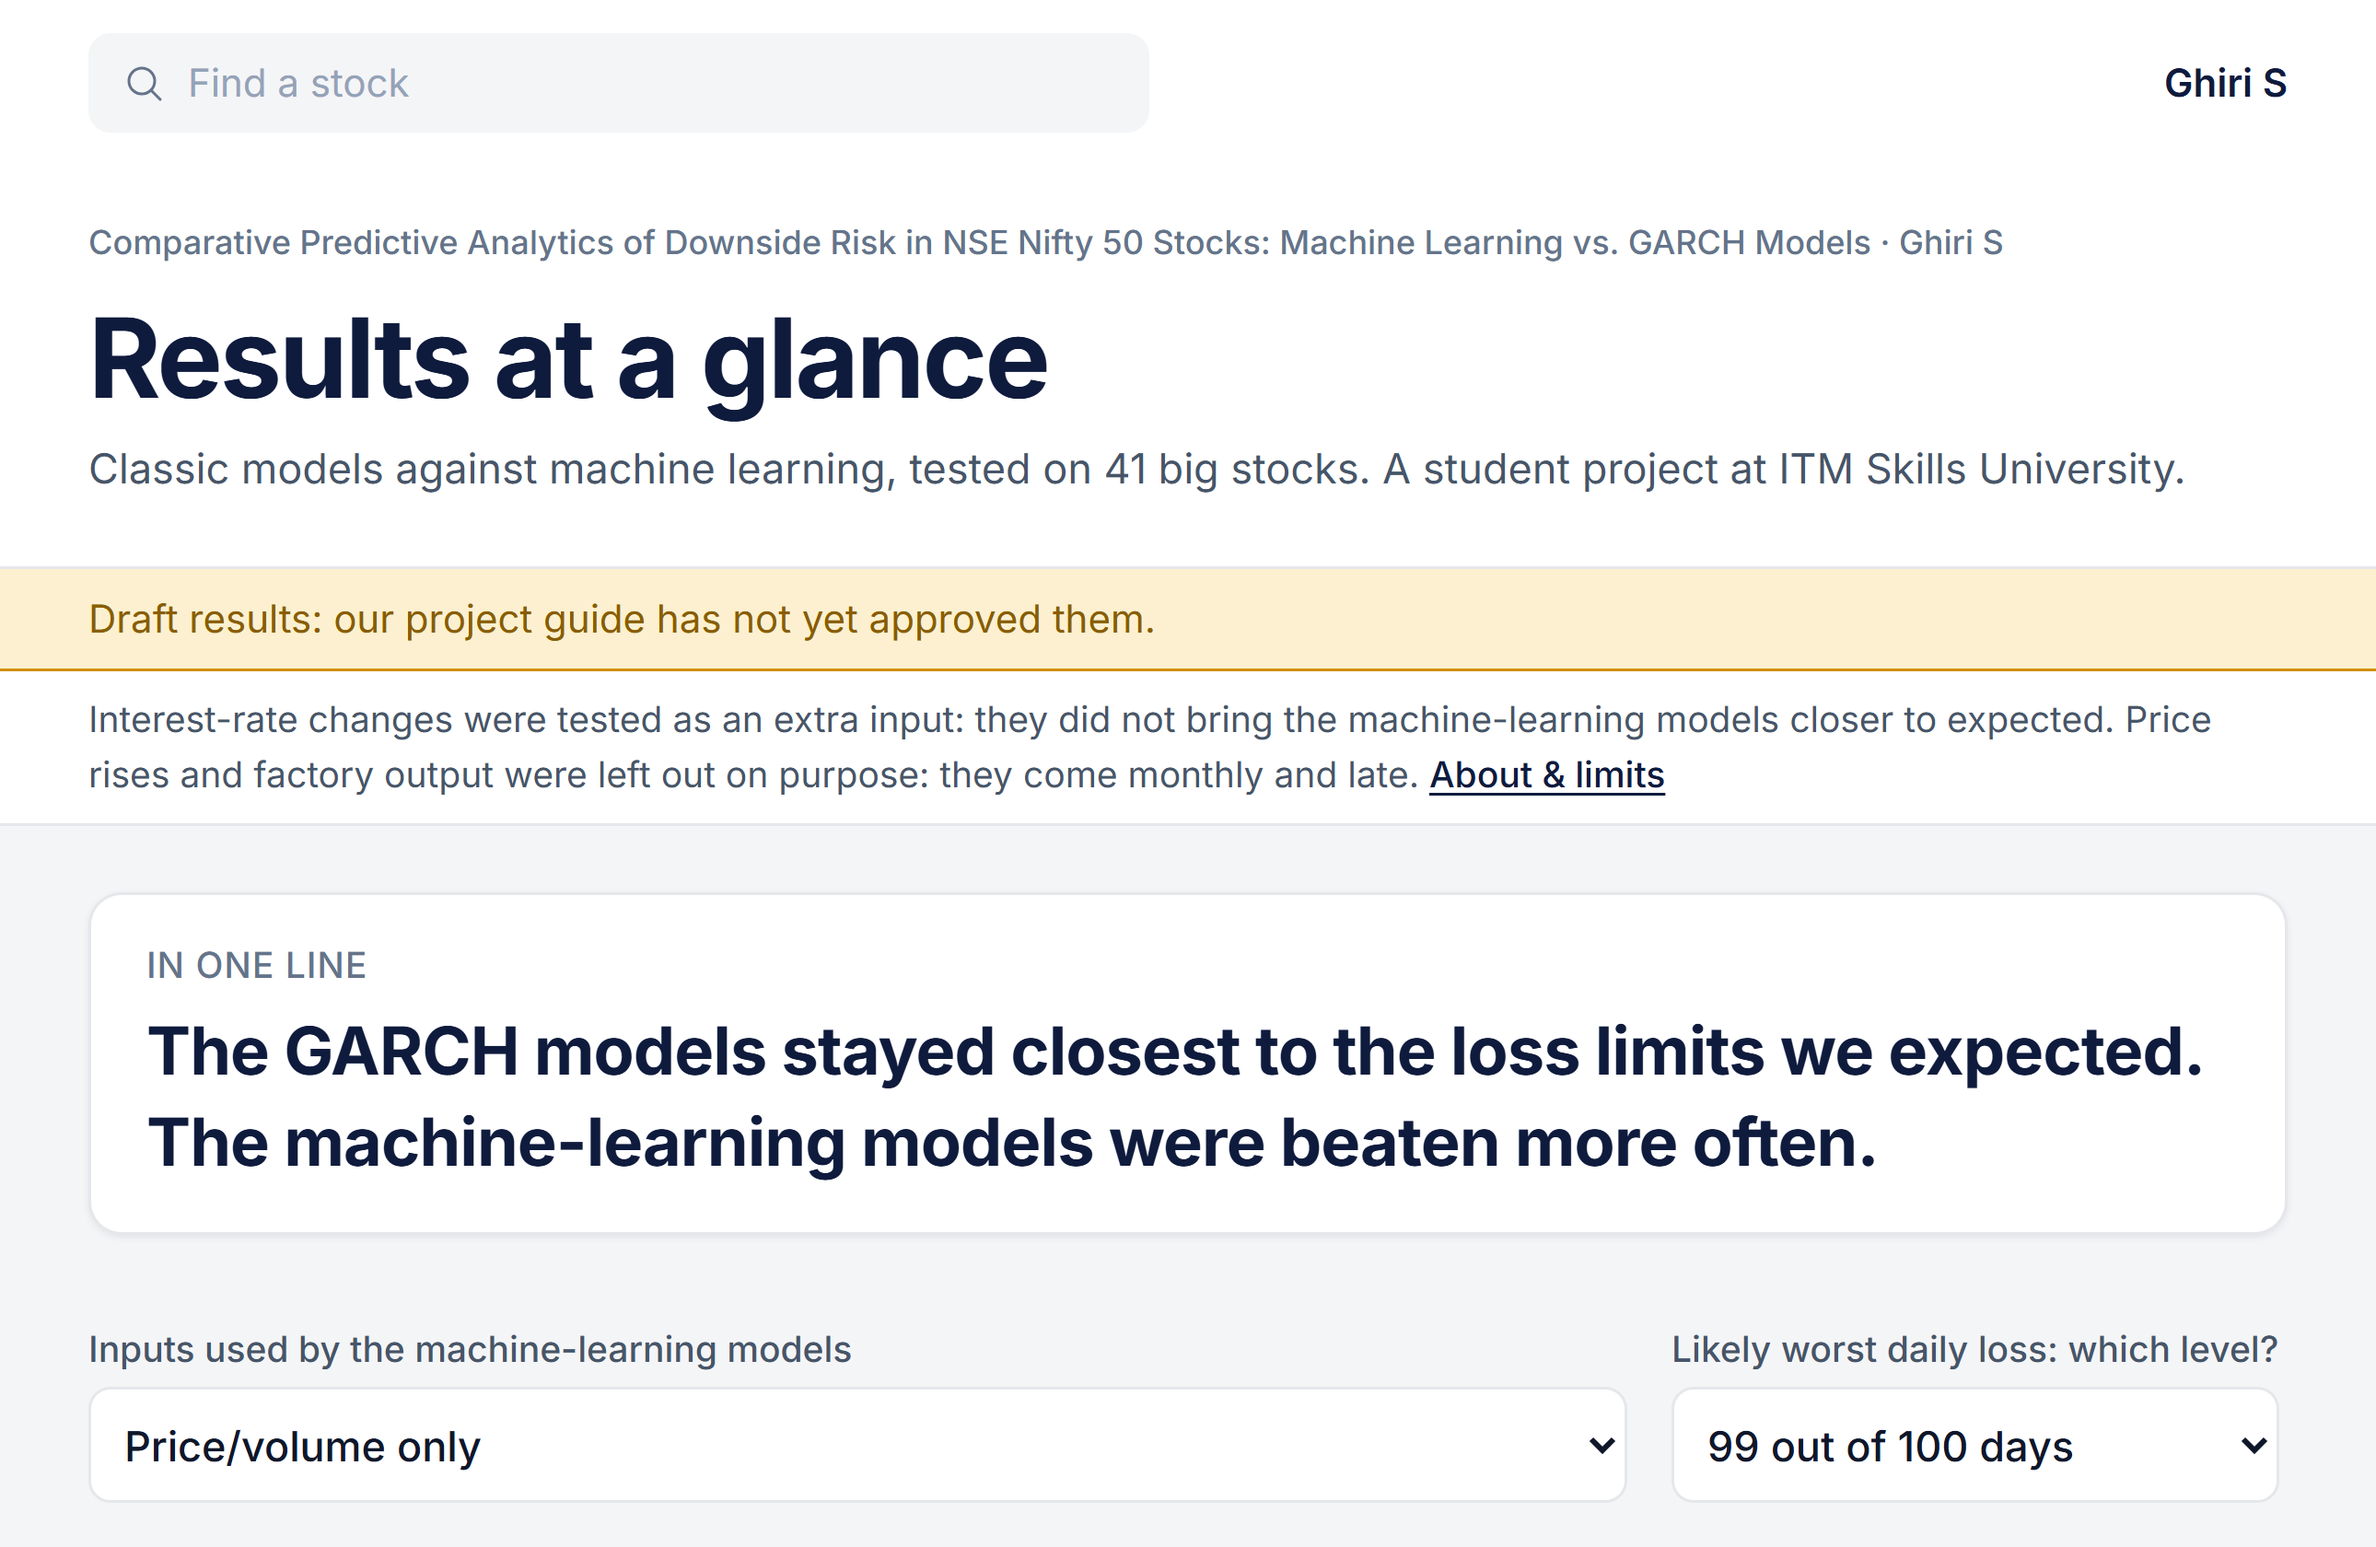
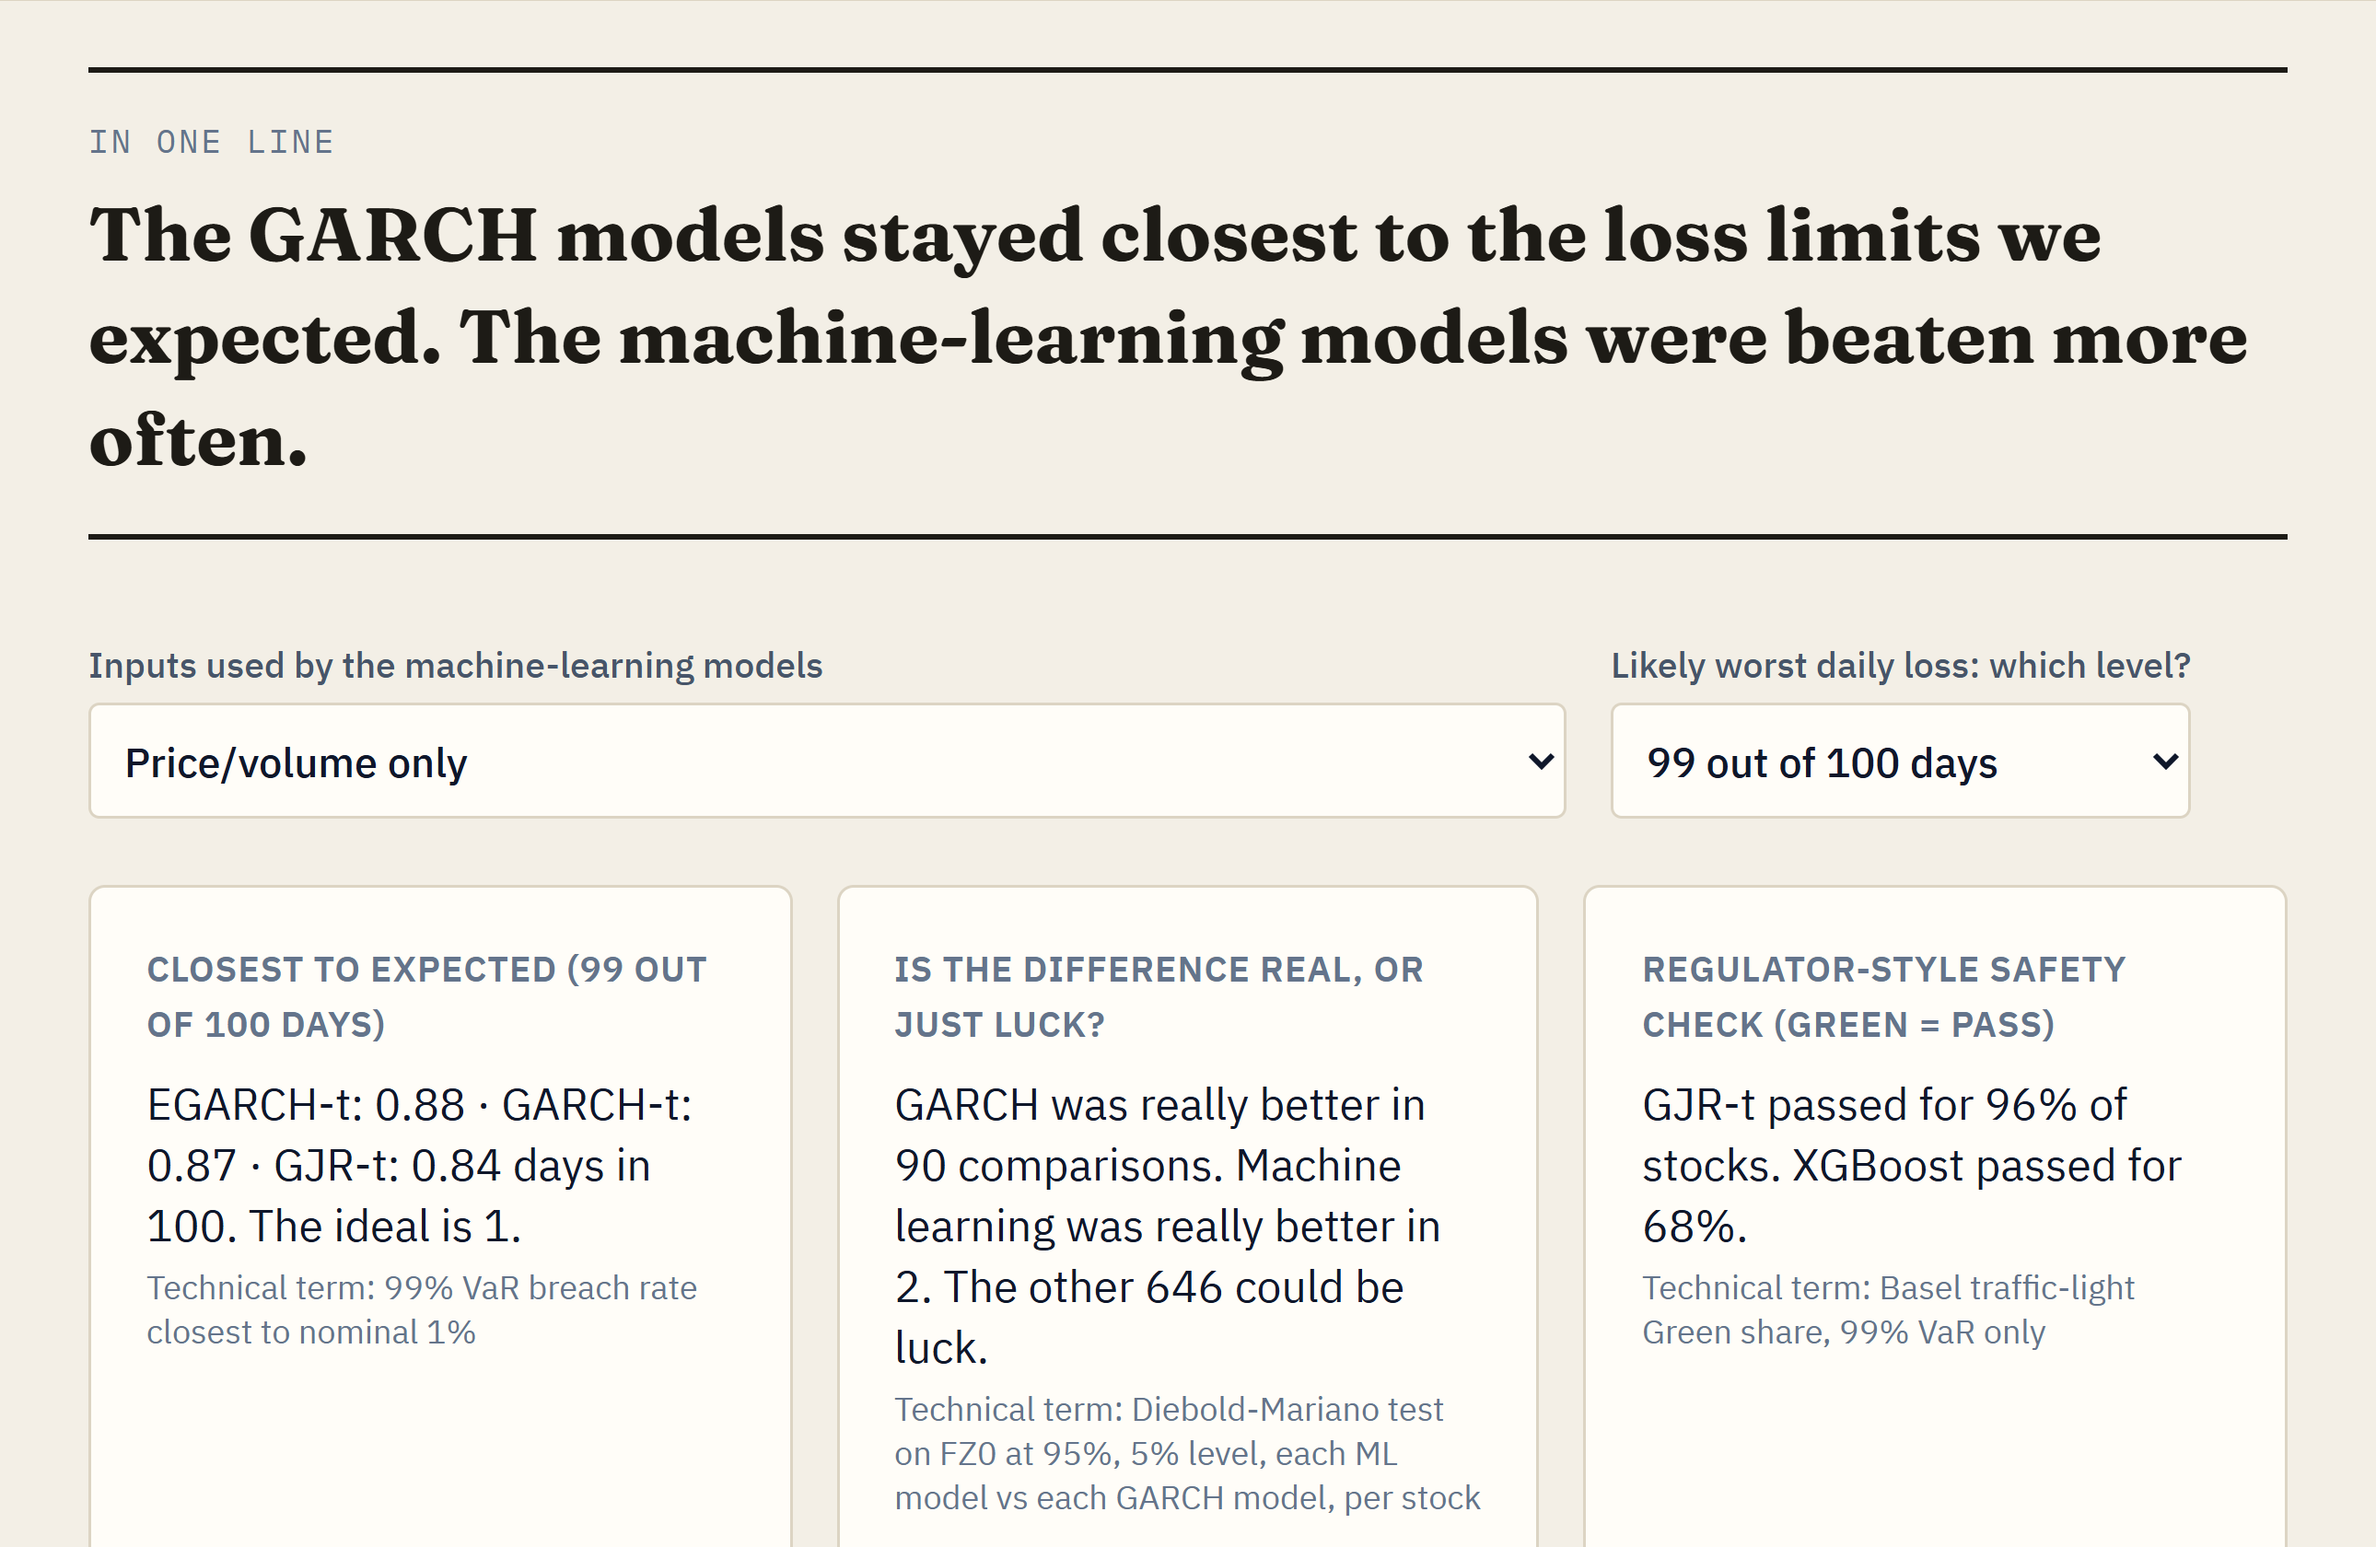
Report: new dashboard screenshots (tab content, risk-ledger design); all report checks clean; PROGRESS updated

diff --git a/src/report_screens.py b/src/report_screens.py
@@ -8,7 +8,7 @@ each crop (HTML and chart text) is measured and its printed size logged. It must
   python src/report_screens.py [--url https://ghiris-a11y.github.io/capstone-nifty50-downside-risk/] [--mode all|desktop|phone|crops]
   -> report/figures/dashboard/app_<name>.png and report/figures/dashboard/app_sizes.json   (crops: element crops)
   -> report/figures/dashboard/desk_<tab>.png  (desktop: first screen of each tab, 1100 x 700, device scale 3, cropped
-     to the content column (menu removed) and the top 560 px, so two fit on a portrait A4 page at 15.5 cm wide)
+     to the tab's own content (menu, masthead and banners removed), 560 px high, so two fit on a portrait A4 page)
   -> report/figures/dashboard/phone_<tab>.png (phone: first screen at 390 x 844, device scale 3)
   -> report/figures/dashboard/qr_dashboard.png (QR code of the live dashboard URL)
   -> report/figures/dashboard/screen_sizes.json (printed size of the body text in each image)
@@ -91,11 +91,13 @@ def first_screens(url, out, tabs, w, h, scale, prefix, print_cm, crop_h=None):
             page.wait_for_timeout(3500)
             body_px = page.evaluate(BODY_JS)
             path = os.path.join(out, f"{prefix}_{name}.png")
-            page.screenshot(path=path)
             shown_w = w
-            if crop_h:   # desktop: keep the content column (menu cropped off) and the top crop_h pixels
-                im = Image.open(path); im.crop((SIDEBAR_PX * scale, 0, im.width, crop_h * scale)).save(path)
+            if crop_h:   # desktop: the tab's own content (masthead and banners are the same on every tab); menu cropped off
+                top = page.evaluate("() => document.querySelector('main').getBoundingClientRect().top + window.scrollY")
+                page.screenshot(path=path, full_page=True, clip=dict(x=SIDEBAR_PX, y=top, width=w - SIDEBAR_PX, height=crop_h))
                 shown_w = w - SIDEBAR_PX
+            else:
+                page.screenshot(path=path)
             sizes[f"{prefix}_{name}"] = dict(viewport=f"{w}x{h}", scale=scale, print_cm=print_cm, body_px=body_px,
                                              body_pt=round(body_px * print_cm / shown_w / 0.03528, 1))
             print(prefix, name, sizes[f"{prefix}_{name}"], flush=True)

diff --git a/report/chapters/09_appendices.md b/report/chapters/09_appendices.md
@@ -88,22 +88,22 @@ Code and data: [https://github.com/ghiris-a11y/capstone-nifty50-downside-risk](h
 
 The main pipeline is nifty50_var_pipeline.py; scripts in src/ build every number and figure in this report. A GitHub Action runs each weekday at 7:00 PM IST. It downloads the day's prices, checks them, recomputes a next-day GJR-t VaR and ES for every stock and updates the dashboard. The dashboard text scored grade {{fk_min}} to {{fk_max}} on the Flesch-Kincaid scale across its {{n_tabs}} tabs. Its layout borrows ideas from two Figma Community files, the [Trading Stock Market Dashboard Platform UI Kit](https://www.figma.com/design/3c5zWpbNciVkRL6YMIsbgg/) and the [Minimal & modern report template](https://www.figma.com/design/o8Yeuw8XFrj9Oxt2TkYOLt/). Only layout ideas were used and no assets were copied; the licence on the two Community pages was not checked.
 
-The figures below show the first screen of five more tabs on a desktop (1,100 by 700 pixels), two to a page. Each is cropped to the content area, with the side menu removed. The last figure shows the same dashboard on a phone.
+The figures below show the first screen of five more tabs on a desktop (1,100 by 700 pixels), two to a page. Each is cropped to the tab's own content, without the menu and the masthead that every tab shares. The last figure shows the same dashboard on a phone.
 
 
-[[FIG:desk_overview|report/figures/dashboard/desk_overview.png|Dashboard, Results at a glance tab on a desktop screen (content area)|Live dashboard, captured with Playwright (src/report_screens.py)|Desktop screenshot of the Results at a glance tab with the one-line answer, input and level selectors, and summary cards.|15.5]]
+[[FIG:desk_overview|report/figures/dashboard/desk_overview.png|Dashboard, Results at a glance tab on a desktop screen (tab content)|Live dashboard, captured with Playwright (src/report_screens.py)|Desktop screenshot of the Results at a glance tab with the one-line answer, input and level selectors, and summary cards.|15.5]]
 
 [[SHOWS]] One screen with the headline numbers for any input set and level, for a manager who has two minutes.
 
-[[FIG:desk_models|report/figures/dashboard/desk_models.png|Dashboard, Model comparison tab on a desktop screen (content area)|Live dashboard, captured with Playwright (src/report_screens.py)|Desktop screenshot of the Model comparison tab with the one-line answer and the top of the chart of how often each model was beaten.|15.5]]
+[[FIG:desk_models|report/figures/dashboard/desk_models.png|Dashboard, Model comparison tab on a desktop screen (tab content)|Live dashboard, captured with Playwright (src/report_screens.py)|Desktop screenshot of the Model comparison tab with the one-line answer and the top of the chart of how often each model was beaten.|15.5]]
 
 [[SHOWS]] How often each model was beaten, with good, caution and poor labels; the basis for choosing the model.
 
-[[FIG:desk_regimes|report/figures/dashboard/desk_regimes.png|Dashboard, Calm vs stressed days tab on a desktop screen (content area)|Live dashboard, captured with Playwright (src/report_screens.py)|Desktop screenshot of the Calm vs stressed days tab with the one-line answer and the market context chart.|15.5]]
+[[FIG:desk_regimes|report/figures/dashboard/desk_regimes.png|Dashboard, Calm vs stressed days tab on a desktop screen (tab content)|Live dashboard, captured with Playwright (src/report_screens.py)|Desktop screenshot of the Calm vs stressed days tab with the one-line answer and the market context chart.|15.5]]
 
 [[SHOWS]] When the models fail: on market-wide fall days, the case for the stress buffer.
 
-[[FIG:desk_stock|report/figures/dashboard/desk_stock.png|Dashboard, One stock up close tab on a desktop screen (content area)|Live dashboard, captured with Playwright (src/report_screens.py)|Desktop screenshot of the stock tab with selectors for stock, two models and level, time-range buttons and the stocks-to-watch list.|15.5]]
+[[FIG:desk_stock|report/figures/dashboard/desk_stock.png|Dashboard, One stock up close tab on a desktop screen (tab content)|Live dashboard, captured with Playwright (src/report_screens.py)|Desktop screenshot of the stock tab with selectors for stock, two models and level, time-range buttons and the stocks-to-watch list.|15.5]]
 
 [[SHOWS]] Any stock and two models, day by day, before a position limit is changed.
 

diff --git a/PROGRESS.md b/PROGRESS.md
@@ -62,6 +62,22 @@ Pages (restructure, 2026-11-22): 48 in total (front matter 6; chapters 1-9: 42).
 - Written into the report (Chapters 1-7, post-hike table with small-sample warning, RBI Handbook reference) and the dashboard (new input set, macro note from the data).
 - Report: 47 pages; desktop screenshots now on portrait A4 (content area, 15.5 cm, two per page).
 
+## Full check and redesign (2026-11-22)
+- **Figma:** a reconnect was refused (Starter-plan MCP limit; an upgrade would be needed). The local reference images in `design/figma/` were used instead.
+- **Dashboard "risk ledger" identity:**
+  - Fraunces headlines and numbers; IBM Plex Sans body; IBM Plex Mono labels;
+  - ink on warm paper, hairline rules, a numbered menu, a model-colour ribbon and a masthead.
+  - Stale interest-rate wording fixed on Start here and on What drives the forecasts.
+  - Checks: Flesch-Kincaid grade 3.1-4.0; design review clean in Chromium and WebKit (360-480 px, landscape, 1440 px).
+- **Report:**
+  - desktop screenshots now crop to each tab's own content (menu and masthead removed);
+  - Yahoo Finance data set now cited;
+  - new `src/report_content_check.py`: every reference cited, no stale wording or leftover markup, no missing figure or table numbers.
+- **All checks:**
+  - pytest 25 passed; demo exit 0;
+  - report 47 pages, 0 split words in tables, 397 numbers traced;
+  - only two pages under 40% (page 4, the contents end; page 19, a chapter end).
+
 ## Open items (need the user)
 1. **Interest rates.** Verify `data/raw/repo_rate.csv` row by row and fill the 13 blank rows, then set every status to VERIFIED.
    - Only then run Path A (one extra labelled set, `price_vixrel_fxchg_repo`). That needs your go-ahead, because it adds results.

diff --git a/report/qa_phase2.md b/report/qa_phase2.md
@@ -42,12 +42,12 @@
 | Figure 5.8 | outputs/figures/print/fig13_breaches_by_day.png | 1791x1540 | 12.8 | 356 |
 | Figure 5.9 | outputs/figures/print/fig09_sector_var.png | 1802x1644 | 12.1 | 380 |
 | Figure 6.1 | report/figures/v_decision_table.png | 2438x2587 | 10.4 | 597 |
-| Figure 6.2 | report/figures/dashboard/desk_start.png | 2580x1656 | 15.5 | 423 |
-| Figure 9.1 | report/figures/dashboard/desk_overview.png | 2580x1656 | 15.5 | 423 |
-| Figure 9.2 | report/figures/dashboard/desk_models.png | 2580x1656 | 15.5 | 423 |
-| Figure 9.3 | report/figures/dashboard/desk_regimes.png | 2580x1656 | 15.5 | 423 |
-| Figure 9.4 | report/figures/dashboard/desk_stock.png | 2580x1656 | 15.5 | 423 |
-| Figure 9.5 | report/figures/dashboard/desk_live.png | 2580x1656 | 15.5 | 423 |
+| Figure 6.2 | report/figures/dashboard/desk_start.png | 2580x1680 | 15.5 | 423 |
+| Figure 9.1 | report/figures/dashboard/desk_overview.png | 2580x1680 | 15.5 | 423 |
+| Figure 9.2 | report/figures/dashboard/desk_models.png | 2580x1680 | 15.5 | 423 |
+| Figure 9.3 | report/figures/dashboard/desk_regimes.png | 2580x1680 | 15.5 | 423 |
+| Figure 9.4 | report/figures/dashboard/desk_stock.png | 2580x1680 | 15.5 | 423 |
+| Figure 9.5 | report/figures/dashboard/desk_live.png | 2580x1680 | 15.5 | 423 |
 | Figure 9.6 | report/figures/dashboard/phone_start.png | 1170x2532 | 5.4 | 550 |
 | Figure 9.6 | report/figures/dashboard/phone_models.png | 1170x2532 | 5.4 | 550 |
 | Figure 9.6 | report/figures/dashboard/phone_live.png | 1170x2532 | 5.4 | 550 |

diff --git a/report/chapters/06_recommendations.md b/report/chapters/06_recommendations.md
@@ -91,6 +91,6 @@ Live dashboard: [https://ghiris-a11y.github.io/capstone-nifty50-downside-risk/](
 The dashboard turns this chapter into a daily tool, refreshed every weekday evening. Its first screen, {{fig:desk_start}}, gives the one-line answer, the key numbers and "What a firm should do" cards.
 
 
-[[FIG:desk_start|report/figures/dashboard/desk_start.png|Dashboard, Start here tab on a desktop screen (content area)|Live dashboard, captured with Playwright (src/report_screens.py)|Desktop screenshot of the dashboard content area with the masthead, the question as the page title, a draft-results banner, the one-line answer and the first key-number cards.|15.5]]
+[[FIG:desk_start|report/figures/dashboard/desk_start.png|Dashboard, Start here tab on a desktop screen (tab content)|Live dashboard, captured with Playwright (src/report_screens.py)|Desktop screenshot of the dashboard content area with the masthead, the question as the page title, a draft-results banner, the one-line answer and the first key-number cards.|15.5]]
 
 [[SHOWS]] Each morning a risk manager opens Start here for the answer and the action cards. The Daily example tab then lists tomorrow's likely worst loss for each stock, sorted from largest. Calm vs stressed days shows whether misses are bunching, and One stock up close checks a single position before a limit is changed.

diff --git a/report/content_check.md b/report/content_check.md
@@ -1,0 +1,6 @@
+# Report content check
+
+- Reference entries: 30
+- References not cited in the text: none
+- Stale wording or leftover markup in the PDF: none
+- Figure/table numbers mentioned but not present: none
